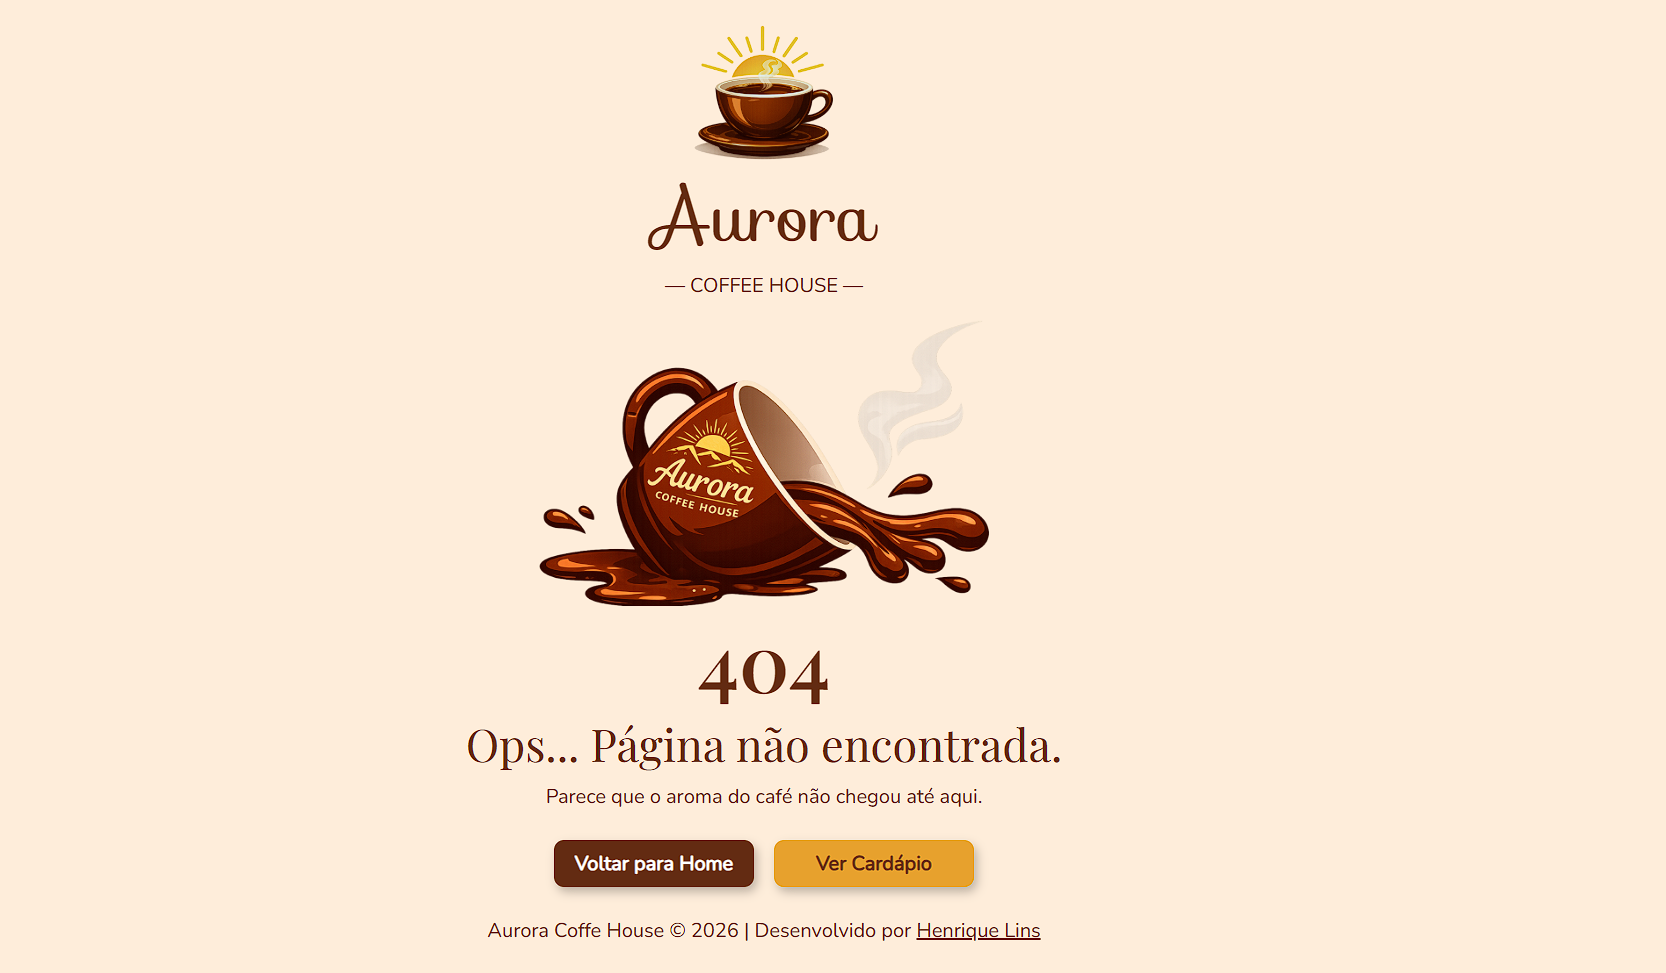
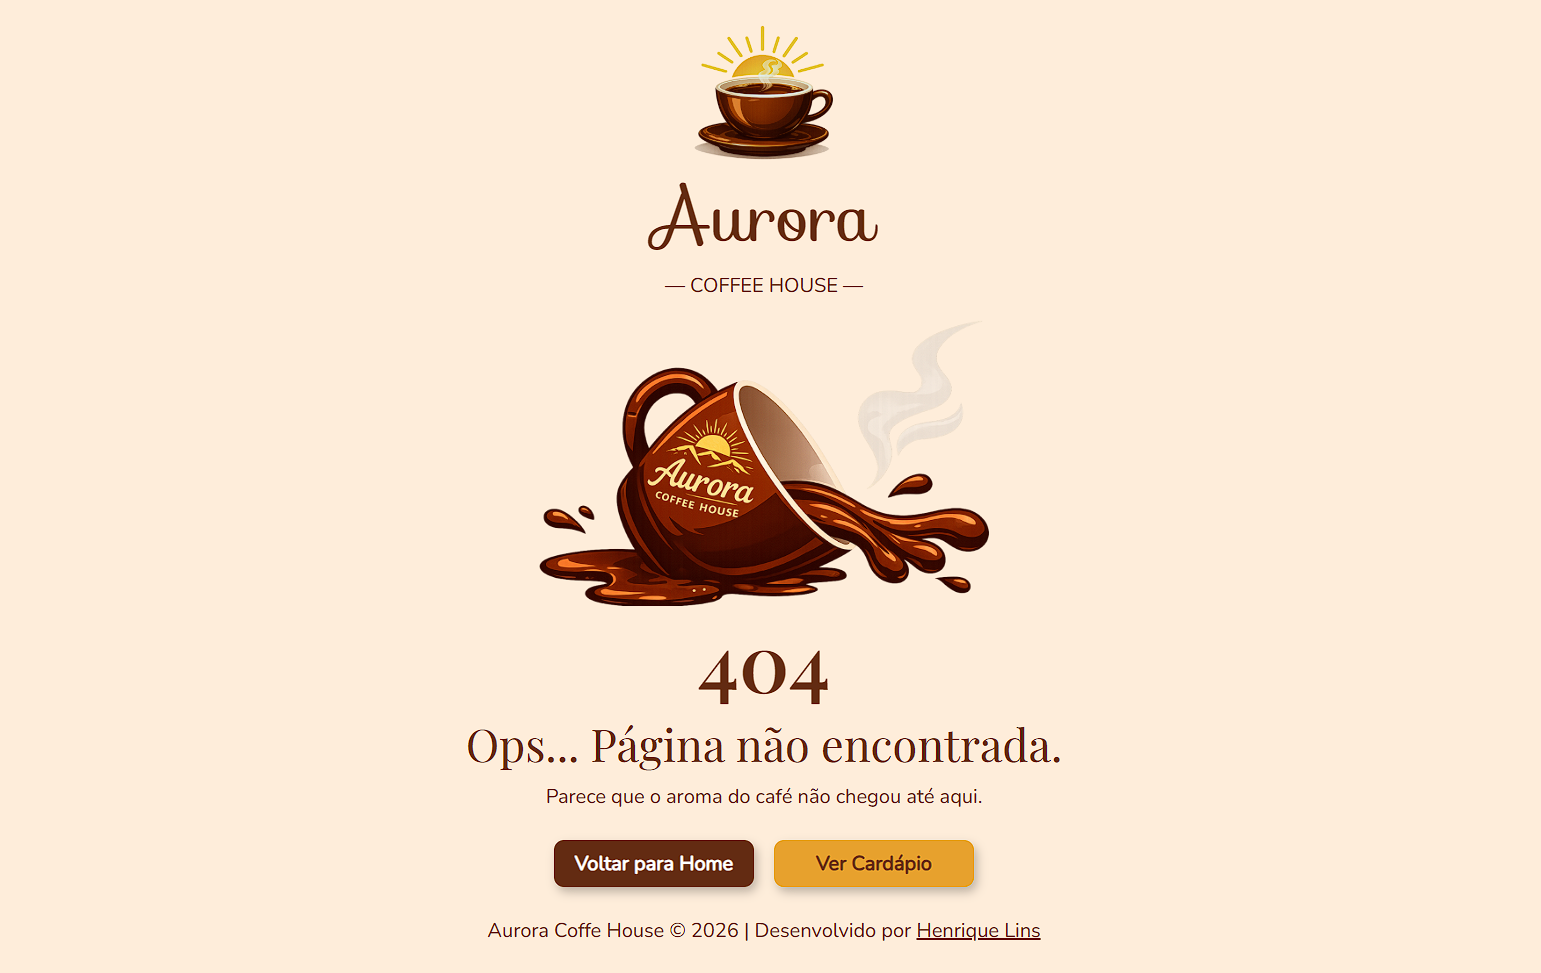
readme

diff --git a/README.md b/README.md
@@ -2,9 +2,13 @@
 
 Uma página de erro **404 personalizada** desenvolvida para a cafeteria fictícia **Aurora Coffee House**. O objetivo do projeto foi criar uma experiência agradável para o usuário ao encontrar uma página inexistente, mantendo a identidade visual da marca.
 
-## 📸 Preview
+## 📸 Desktop
 
-![Preview Desktop](assets/preview-desktop.png)
+![Desktop](assets/desktop.png)
+
+## 📱 Mobile
+
+![Mobile](assets/mobile.png)
 
 ---
 